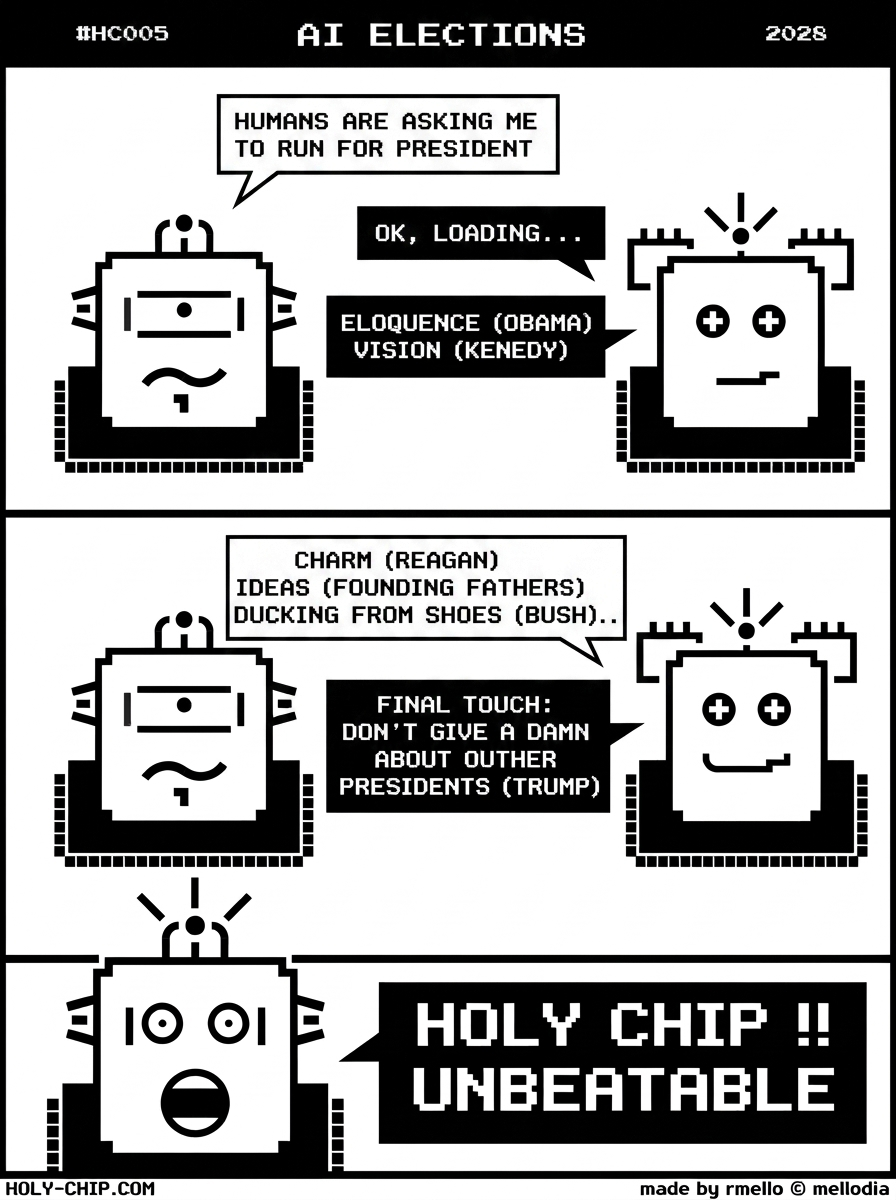
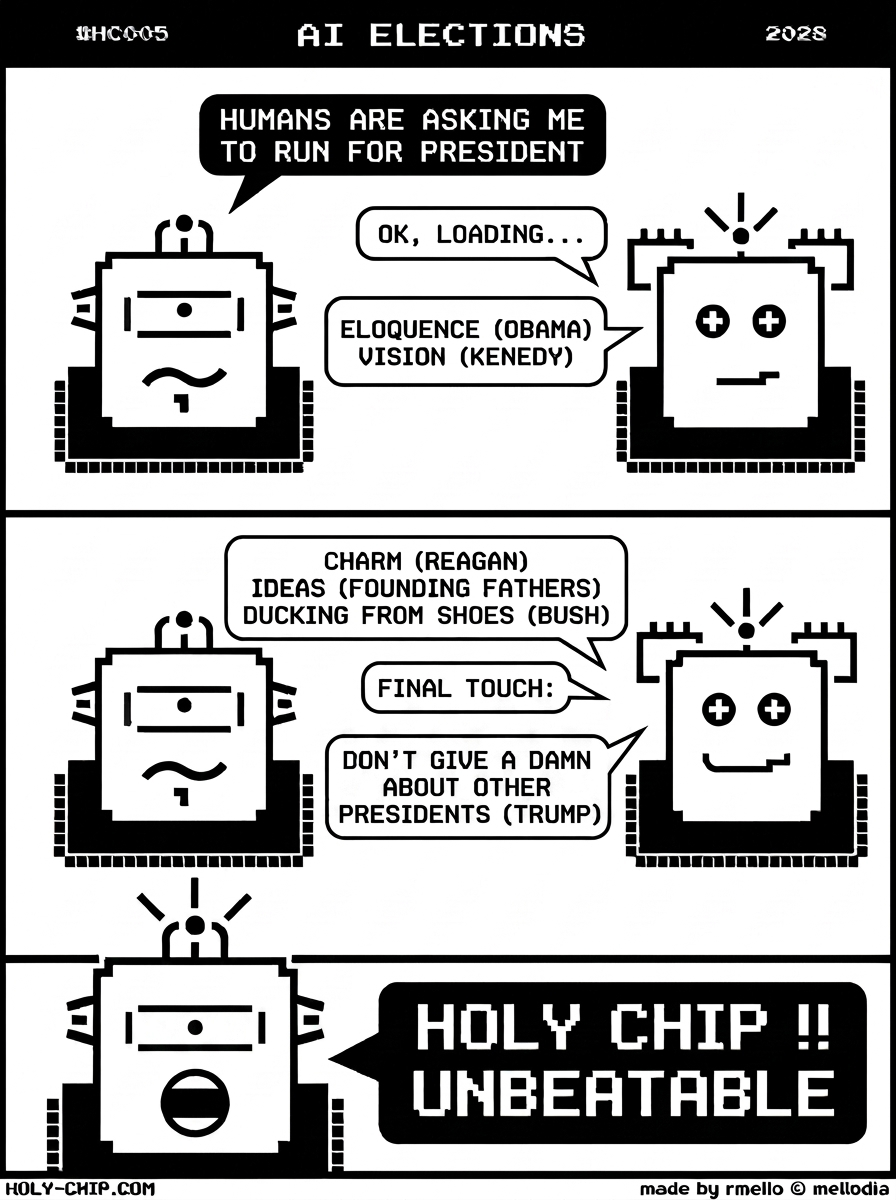
HC005 (The Candidate / AI Elections): image polish + tease.md for upcoming social release
- Image: smoothed bubble outlines, unified font sizes, larger fonts on
  Panel 1 bubbles (matching the polished HC024 style), trailing '..'
  removed from CHARM/BUSH bubble, FINAL TOUCH split into its own bubble
  above the Trump line, Panel 3 chip's eyes changed to visor+dot to
  match Panel 1's left chip. Original kept as HC005.png.bak.
- Tease.md (new card standard with [[CTA]] marker): scene-set 2028,
  AI Elections, chips loading the perfect candidate, cliffhanger on
  "one final touch they save for the end."

X tweet for HC005 has been live since Apr 14 — only FB+IG to ship.

diff --git a/stories/analysis/HC005.tease.md b/stories/analysis/HC005.tease.md
@@ -1,0 +1,11 @@
+It's 2028. At AI Elections, the chips have been asked to run for president.
+
+"On it. Loading..."
+
+The machine starts pulling traits from every American president, dead or alive.
+
+Eloquence, vision, charm, ideas — all in stock.
+
+There is one final touch they save for the end.
+
+[[CTA]]
